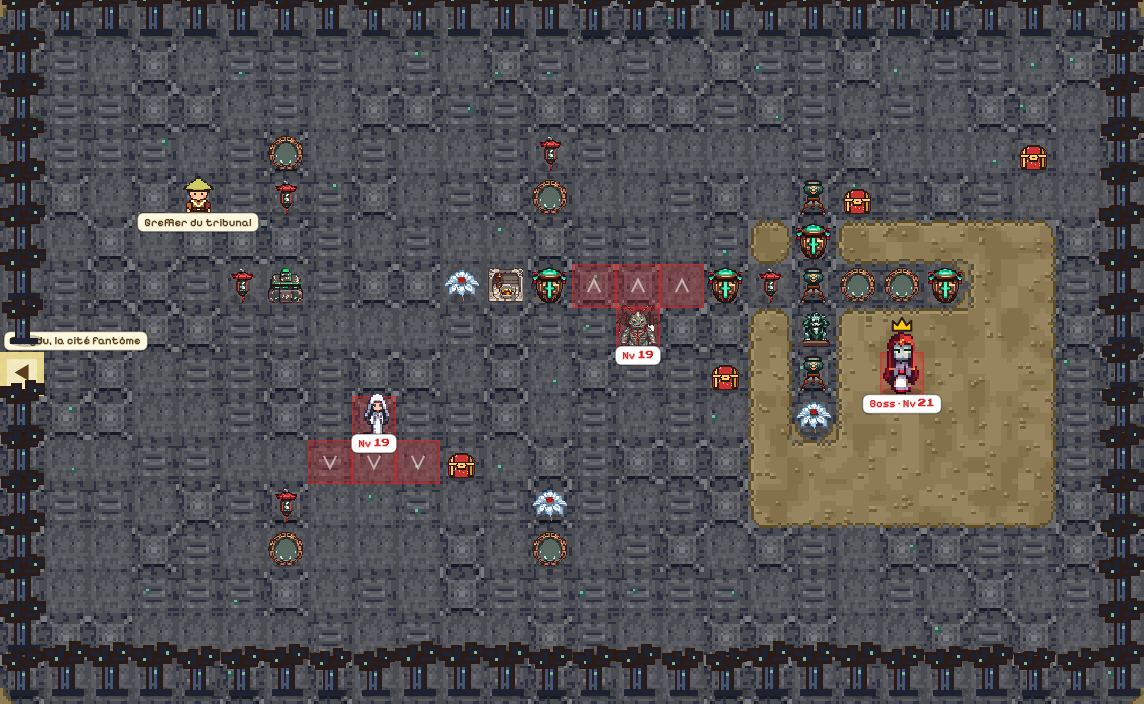
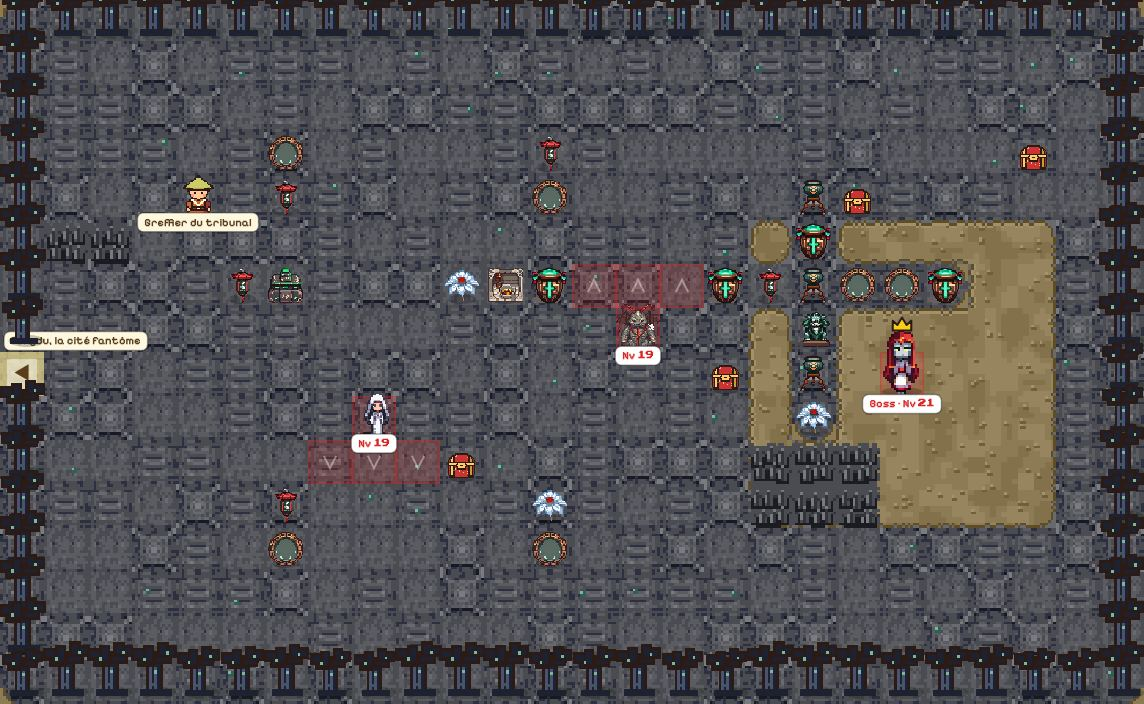
feat(match3-quest): passages d'herbes obligés sur les cartes d'événement
Claude-Session: https://claude.ai/code/session_0145pwWhcPC3joXAjeQxEr8m

diff --git a/match3-quest/world/levelDesign.js b/match3-quest/world/levelDesign.js
@@ -47,6 +47,8 @@ export const isPopulable = screen =>
     Boolean(screen.region) && !screen.interior && !screen.arena && !screen.aquatic && screen.kind !== 'house' && screen.biome !== 'tides' &&
     /^[a-z]+(_(village|hamlet|wild|road))?$/.test(screen.id) && screen.id.split('_')[0] === screen.region && screen.w >= 20 && screen.h >= 12;
 
+const EVENT_GRASS_POOL = { wandering_souls: ['gui_esprit', 'yuan_gui', 'nu_gui', 'mu_gui'], winter_lantern_mountain: ['dame_des_neiges', 'xue_niao', 'shan_gui'] };
+const EVENT_GRASS_NAMES = { gui_esprit: 'Esprit errant', yuan_gui: 'Âme rancunière', nu_gui: 'Esprit en colère', mu_gui: 'Esprit du bois', dame_des_neiges: 'Esprit du givre', xue_niao: 'Oiseau de givre', shan_gui: 'Esprit des cols' };
 export const CACHES_PER_MAP = 8;     // caches invisibles par route / zone sauvage
 export const MIMICS_PER_MAP = 3;     // coffres-pièges par carte de plein air
 
@@ -699,9 +701,17 @@ export function designLevel(screen, options = {}) {
         }
         return screen;
     }
-    // carte d'événement sans hautes herbes : une table vide sert le temps du dessin (passages, défilés) puis disparaît (aucune rencontre)
+    // carte d'événement sans hautes herbes : elle reçoit une table tirée de ses propres ennemis (hors boss), pour que les passages d'herbes
+    // obligés (défilés) déclenchent de vraies rencontres ; sans ennemi (village enneigé), l'herbe n'est qu'un outil de dessin et disparaît
     const syntheticGrass = !screen.grass;
-    if (syntheticGrass) screen.grass = { cells: [], rate: 0, safeSteps: 3, table: [] };
+    if (syntheticGrass) {
+        const seenT = new Set();
+        const table = (screen.enemies || []).filter(e => !e.boss && e.templateId && !seenT.has(e.templateId) && seenT.add(e.templateId))
+            .map(e => ({ templateId: e.templateId, name: e.name || e.templateId, weight: 1, offset: Number.isInteger(e.offset) ? e.offset : 0 }));
+        // au moins 3 espèces : complétées par celles du biome (esprits du royaume des âmes, créatures du givre)
+        for (const id of EVENT_GRASS_POOL[screen.biome] || []) if (table.length && table.length < 3 && !seenT.has(id)) { seenT.add(id); table.push({ templateId: id, name: EVENT_GRASS_NAMES[id] || id, weight: 1, offset: table[0].offset }); }
+        screen.grass = { cells: [], rate: 0.12, safeSteps: 3, table };
+    }
     const c = makeContext(screen);
     const seed = seedOf(screen.id);
     const report = { motifs: [], ledges: 0, defiles: 0, hidden: 0, mimic: 0, corners: 0 };
@@ -762,7 +772,7 @@ export function designLevel(screen, options = {}) {
     screen.liquids = toRects(c.liq);
     screen.paths = toRects(c.paths);
     screen.grass = { ...screen.grass, cells: toRects(c.grass) };
-    if (syntheticGrass) delete screen.grass;
+    if (syntheticGrass && !screen.grass.table.length) delete screen.grass;
     if (c.ledges.size) screen.ledges = [...c.ledges].map(([k, dir]) => [...unkey(k), dir[0], dir[1]]);
     screen.design = report;
     return screen;

diff --git a/match3-quest/tests/unit/levelDesign.test.js b/match3-quest/tests/unit/levelDesign.test.js
@@ -339,8 +339,18 @@ describe('cartes d\'événement', () => {
         expect(big.map(s => [s.id, s.chests.filter(c => c.hidden).length]).filter(([, n]) => n < CACHES_PER_MAP)).toEqual([]);
         expect(big.filter(s => !(s.design.corners >= 1)).map(s => s.id)).toEqual([]);
     });
-    test('les cartes sans hautes herbes d\'origine n\'en gardent pas (aucune rencontre ajoutée)', () => {
-        eventMaps.filter(s => !s.grass).forEach(s => expect(s.design.hidden).toBeGreaterThanOrEqual(0));
-        expect(Object.values(SCREENS).filter(s => s.event && s.kind === 'wild' && s.grass).every(s => Array.isArray(s.grass.table) && s.grass.table.length > 0)).toBe(true);
+    test('chaque carte d\'événement avec ennemis oblige à traverser des hautes herbes (défilé) avec de vraies rencontres', () => {
+        const withEnemies = eventMaps.filter(s => (s.enemies || []).some(e => !e.boss));
+        expect(withEnemies.length).toBeGreaterThanOrEqual(9);
+        withEnemies.forEach(s => {
+            expect({ id: s.id, defiles: s.design.defiles }).toEqual({ id: s.id, defiles: expect.any(Number) });
+            expect(s.design.defiles).toBeGreaterThanOrEqual(1);
+            expect(s.grass && s.grass.cells.length).toBeGreaterThan(0);
+            expect(s.grass.table.length).toBeGreaterThan(0);
+            expect(s.grass.rate).toBeGreaterThan(0);
+        });
+    });
+    test('le village enneigé (sans ennemi) ne reçoit pas de rencontre', () => {
+        expect(SCREENS.winter_lantern_mountain.grass).toBeUndefined();
     });
 });

diff --git a/match3-quest/agents/level-design.md b/match3-quest/agents/level-design.md
@@ -54,7 +54,7 @@ des champs uniformes. Le générateur `world/levelDesign.js` en applique une par
 - **Coffres refermés** : au retour sur une carte, quelques coffres déjà ouverts se referment en mimiques (jamais ceux dont dépend une quête ou une condition) ; **perception du qì** : on touche le héros, 5 s, flèche rouge vers la cache la plus proche.
 - **Cartes vastes et contour irrégulier** : routes et zones sauvages natives agrandies par `world/enlarge.js` (64 de large, excroissances et coins rognés) ; ne pas dessiner de grille native au-delà de 64×64 / 1500 cases, l'agrandissement s'applique par-dessus.
 - **Entrées et sorties variées** : `world/index.js` `TURNS` fait entrer ou sortir certaines routes par le haut ou le bas (jamais toujours ouest → est) ; un village a quatre ancres `<` `>` `^` `v`, une zone sauvage mène toujours au sanctuaire par l'est.
-- **Cartes d'événement** (village enneigé, col et sanctuaire de la Fête des lanternes, royaume des âmes errantes) : mêmes préconisations, appliquées par `designLevel` (`isDesignable` accepte `screen.event`, taille minimale 22×12) : corniche, motifs, défilés, 8 caches invisibles, 3 coffres-pièges, et **contour rogné** (`carveContour` : arrondi ou rectangle collé à chaque coin, abandonné s'il toucherait une entité, une sortie ou l'arrivée, ou isolerait une case). Une carte sans hautes herbes n'en garde pas après le dessin (aucune rencontre ajoutée). Exceptions admises : le hall d'entrée du royaume (22×13), le pont (44×12) et la salle des miroirs (26×16) n'ont pas la place d'une corniche de retour de 20 pas ni de huit caches (au mieux). Tout nouvel événement doit passer par là (`tests/unit/levelDesign.test.js`, « cartes d'événement »).
+- **Cartes d'événement** (village enneigé, col et sanctuaire de la Fête des lanternes, royaume des âmes errantes) : mêmes préconisations, appliquées par `designLevel` (`isDesignable` accepte `screen.event`, taille minimale 22×12) : corniche, motifs, défilés, 8 caches invisibles, 3 coffres-pièges, et **contour rogné** (`carveContour` : arrondi ou rectangle collé à chaque coin, abandonné s'il toucherait une entité, une sortie ou l'arrivée, ou isolerait une case). Chaque carte d'événement qui a des ennemis a au moins un **passage obligé par des hautes herbes** (défilé) avec de vraies rencontres : sans table d'herbes d'origine, elle en reçoit une tirée de ses ennemis (hors boss), complétée à 3 espèces par celles du biome. Le village enneigé (aucun ennemi) reste sans rencontre. Exceptions admises : le hall d'entrée du royaume (22×13), le pont (44×12) et la salle des miroirs (26×16) n'ont pas la place d'une corniche de retour de 20 pas ni de huit caches (au mieux). Tout nouvel événement doit passer par là (`tests/unit/levelDesign.test.js`, « cartes d'événement »).
 - **Brouillard de guerre** : la minimap grise les cases jamais vues ; prévoir des repères visibles de loin (tours, arbres remarquables).
 - À envisager ensuite : cartes plus vastes et silhouettes non rectangulaires (grilles natives à redessiner), portes à clé de biome, ponts à sens unique.
 

diff --git a/match3-quest/SPECS.md b/match3-quest/SPECS.md
@@ -1,6 +1,7 @@
 # Match3 Quest — Spécifications
 
 Spécifications et journal de session de `match3-quest/`.
+- 2026-11-03 (passages d'herbes obligés sur les cartes d'événement) : à la demande de l'utilisateur (« sur les deux nouvelles zones, obligation de passer par les hautes herbes par endroit »). `world/levelDesign.js` : une carte d'événement sans table d'herbes en reçoit une (taux 0,12, 3 pas sûrs) tirée de ses ennemis hors boss, complétée à 3 espèces par `EVENT_GRASS_POOL` (esprits du royaume, créatures du givre) ; les défilés (haie percée d'un passage d'herbes) créés par le level design déclenchent donc de vraies rencontres sur les 7 cartes du royaume et sur le col et le sanctuaire enneigés. Le village enneigé (sans ennemi) reste sans herbe. Tests « cartes d'événement » : ≥ 1 défilé, herbes, table et taux non vides. `agents/level-design.md` mis à jour.
 - 2026-11-03 (level design appliqué aux événements) : à la demande de l'utilisateur (« lanterne enneigée et royaume des âmes doivent aussi respecter les nouvelles préconisations »). `world/levelDesign.js` : `isDesignable` accepte les cartes de plein air d'événement (`screen.event`, ≥ 22×12) : le village enneigé, le col, le sanctuaire et les 7 cartes du royaume des âmes reçoivent corniche (≥ 20 pas de retour), motifs, défilés, 8 caches invisibles et 3 coffres-pièges (dernière passe plus souple pour les petites salles : arrivée à 4 cases, marge 2). Nouveau `carveContour` : chaque coin est rogné par un arrondi ou un rectangle collé (relief), sans toucher entité, sortie ni arrivée, sans isoler de case. Une carte d'événement sans hautes herbes n'en garde pas (table vide temporaire). Essais de corniche relevés pour ces cartes. Exceptions (petites salles) : hall du royaume 22×13 (3 caches), pont 44×12 (pas de corniche, 6 caches), salle des miroirs 26×16 (pas de corniche). `agents/level-design.md` consigne la règle ; tests « cartes d'événement » dans `levelDesign.test.js` ; `designed` (régions) exclut désormais les événements.
 - 2026-11-03 (captures sans héros) : à la demande de l'utilisateur. Avec `?shot=1`, `explorationView.js` ne dessine plus le héros ni son compagnon ; `tools/build-soluce-shots.mjs` masque aussi le bandeau de niveau. Les 154 captures de `soluce/img` sont régénérées sans ces éléments : elles servent à la soluce et au fond de la carte plein écran zoomée.
 - 2026-11-03 (carte plein écran : fond = captures de la soluce) : à la demande de l'utilisateur (« utilise les screens déjà générés pour la soluce », « appose-y le brouillard de guerre »). `explorationView.js` `openMapOverlay` charge `soluce/img/<écran>.jpg` en arrière-plan (la minimap agrandie reste le repli tant qu'elle charge ou si la capture manque) : plus net quand on zoome. Le brouillard de guerre est posé par-dessus, passé deux fois pour masquer pour de bon les cases jamais vues (la capture ne doit rien révéler) ; les points de personnages et d'ennemis ne sont plus tracés sur la capture, qui les montre déjà. Vérifié dans Chromium (fond chargé, brouillard opaque).
